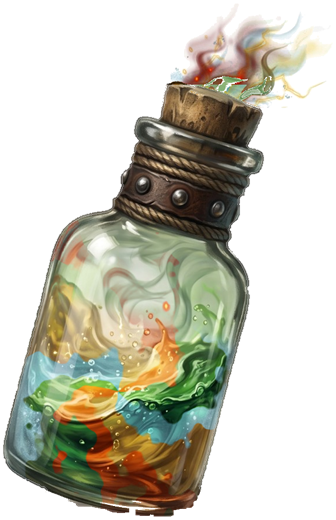
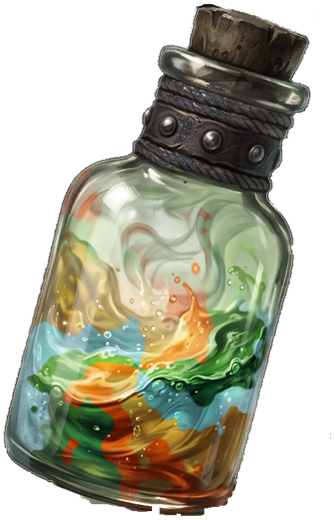
Remove smoke from the Bomber Field Vial and match its neck to the other field vials

diff --git a/src/articles/field-vials.md b/src/articles/field-vials.md
@@ -24,9 +24,9 @@ summary: "Volatile vials adapted for each Alchemist research field: Bomber, Chir
     <div class="stat-block-body">
       <div class="stat-block-main">
         <p class="appearance-label">Appearance</p>
-        <p>A tiny corked glass flask, its neck bound in rope and a studded leather collar, holding a chaotic, swirling mixture of four chemicals that never quite blend: corrosive green, icy blue, pale crackling gold, and glowing orange. Wisps of green vapor, frosty mist, sparks of lightning, and ember-smoke curl together from the cork.</p>
+        <p>A tiny corked glass flask, its neck bound in dark rope and a studded leather collar, holding a chaotic, swirling mixture of four chemicals that never quite blend: corrosive green, icy blue, pale crackling gold, and glowing orange.</p>
       </div>
-      <img class="stat-block-art" src="{{ '/images/bomber-field-vial.png' | url }}" alt="A tilted glass flask with a cork stopper and a rope-bound, studded leather collar, holding a swirling mixture of green, light blue, gold, and orange liquids, with wisps of colored vapor, mist, lightning, and smoke rising from the cork." loading="lazy">
+      <img class="stat-block-art" src="{{ '/images/bomber-field-vial.png' | url }}" alt="A tilted glass flask with a cork stopper and a dark-rope-wrapped, studded leather collar, holding a swirling mixture of green, light blue, gold, and orange liquids." loading="lazy">
     </div>
   </div>
   <p><strong>Usage</strong> held in 1 hand; <strong>Bulk</strong> &mdash;<br>
